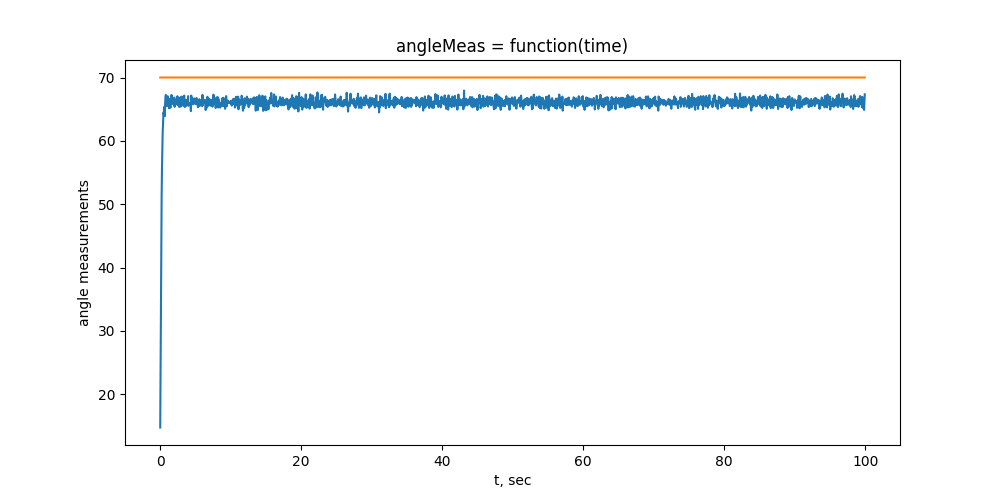
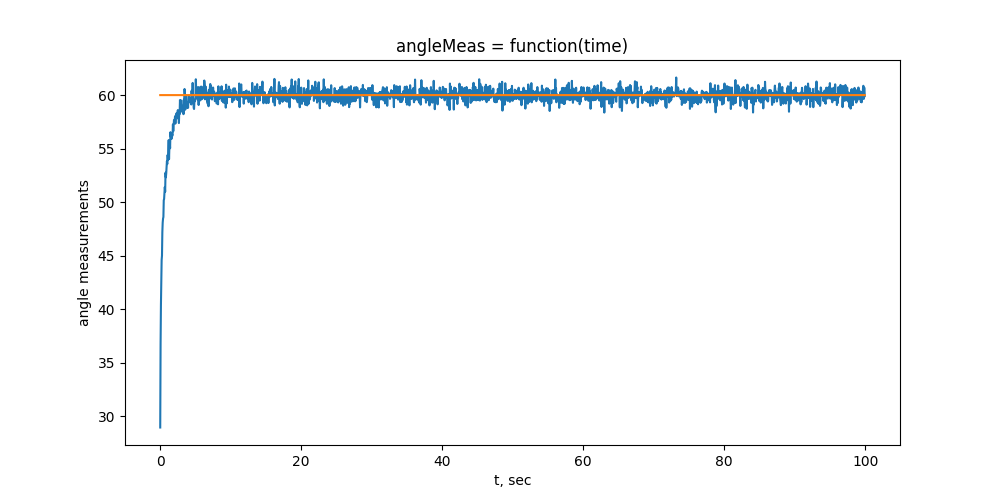
1b completed

diff --git a/1b/harmonic_pendulum_control.py b/1b/harmonic_pendulum_control.py
@@ -1,18 +1,19 @@
-import  numpy as np
 import  matplotlib.pyplot as plt
 from init1b import *
 from rkSolver import RK4Model
 
-def pidControl(yMes, yRef, kD, kI, kP, time):
-    [xMeas, derxMeas] = yMes
+def pidControl(yMeas, yRef, kD, kI, kP, dTimeControl, N):
+    [xMeas, derxMeas] = yMeas[-1]
     [xRef, derxRef] = yRef
-    #print(xMeas, xRef)
-    return -kP * (xMeas - xRef) - kD * (derxMeas - derxRef) - kI * (xMeas - xRef) * time
+    control = -kP * (xMeas - xRef) - kD * (derxMeas - derxRef)
+    for i in range(N):
+        control -= kI * (yMeas[i, 0] - yRef[0]) * dTimeControl
+    return control
 
-def LyapunovControl(yMes, yRef, kLl, kLd, m, g, l):
-    [xMeas, derxMeas] = yMes
+def LyapunovControl(yMeas, yRef, kLl, kLd, m, g, l):
+    [xMeas, derxMeas] = yMeas
     [xRef, derxRef] = yRef
-    return -kLl * (xMeas - xRef) - kLd * (derxMeas - derxRef) + m * g * l * np.sin(xMeas)
+    return -kLl * (xMeas - xRef) - kLd * (derxMeas - derxRef) + g / l * np.sin(xMeas)
 
 def HarmonicPendulum(y0, t, dt, yRef, dtControl, sigma, kP, kI, kD):
 
@@ -24,23 +25,22 @@ def HarmonicPendulum(y0, t, dt, yRef, dtControl, sigma, kP, kI, kD):
     if t[-1] / dtControl != timeCorrection:
         t = np.arange(0, timeCorrection * dtControl, dt)
 
+    y = np.array([np.array([0,0], dtype= float) for i in range(len(t))])
+    u = np.array([0]*len(t), dtype=float)
 
-    y = np.array([y0 for i in range(len(t))])
-    u = np.array([0]*len(t))
+    yMeas = np.array([np.array([0, 0], dtype= float) for i in range(timeCorrection)])
 
+    for i in range(1, timeCorrection + 1):
+        yMeas[i - 1] = y0 + np.random.normal(0, sigma)
 
-    yMeas = np.array([y0 for i in range(timeCorrection)])
+        tRK4 = t[stepCorrection * (i - 1): stepCorrection * i:]
+        control = LyapunovControl(yMeas[i - 1], yRef, kLl, kLd, m, g, l)
+        #control = pidControl(yMeas[:i:], yRef, kD, kI, kP, dtControl, i)
+        u[stepCorrection * (i - 1): stepCorrection * i:] = np.array([control]*stepCorrection)
+        PendulumFunctionControl = lambda x: np.array([x[1], -g / l * np.sin(x[0]) + control ])
+        y[stepCorrection * (i - 1): stepCorrection * i] = RK4Model(y0, tRK4, dt, PendulumFunctionControl)
+        y0 = y[stepCorrection * i - 1]
 
-    for i in range(0, timeCorrection):
-        yMeas[i] = y[stepCorrection * i-1] + np.random.normal(0, sigma)
-        tRK4 = t[stepCorrection * i: stepCorrection * (i + 1):]
-        control = pidControl(yMeas[i], yRef, kD, kI, kP, dtControl)
-        control += LyapunovControl(yMeas[i], yRef, kLl, kLd, m, g, l)
-        u[stepCorrection * i: stepCorrection * (i + 1):] = [control]*stepCorrection
-        PendulumFunctionControl = lambda x: np.array([x[1], -g / l * np.sin(x[0]) + control])
-        y[stepCorrection * i: stepCorrection * (i + 1)] = RK4Model(y[stepCorrection*i-1], tRK4, dt, PendulumFunctionControl)
-
-    # print(np.round(np.rad2deg(y[:, 1a])))
     alpha = np.rad2deg(y[:, 0])
     omega = y[:, 1]
 
@@ -60,7 +60,7 @@ def HarmonicPendulum(y0, t, dt, yRef, dtControl, sigma, kP, kI, kD):
     plt.plot(t, np.array([np.rad2deg(yRef[0])] * len(t)))
     plt.savefig('angle1b')
     plt.show()
-
+    #
     fig = plt.figure(figsize=(10, 5))
     plt.xlabel('t, sec')
     plt.ylabel('omega')

diff --git a/1b/init1b.py b/1b/init1b.py
@@ -2,7 +2,7 @@ import numpy as np
 
 dt = 0.01 #s
 t = np.arange(0, 100, dt, dtype=float)
-alpha = np.deg2rad(15) # rad
+alpha = np.deg2rad(30) # rad
 omega =  np.pi # rad/s
 y0 = [alpha, omega]
 m = 0.1 + np.random.normal(0, 0.005) # kg
@@ -11,11 +11,11 @@ g = 9.8 + np.random.normal(0.05) # m/s^2
 
 # Control parametres
 sigma = np.array([np.deg2rad(0.5), np.deg2rad(0.03)])
-kP = 10
-kI = 10
+kP = 1
+kI = 1
 kD = 1
 
-kLl = 110
-kLd = 20
+kLl = 10
+kLd = 10
 dtControl = 5 * dt
-yRef = np.array([np.deg2rad(70), 0])
+yRef = np.array([np.deg2rad(60), 0.0])
